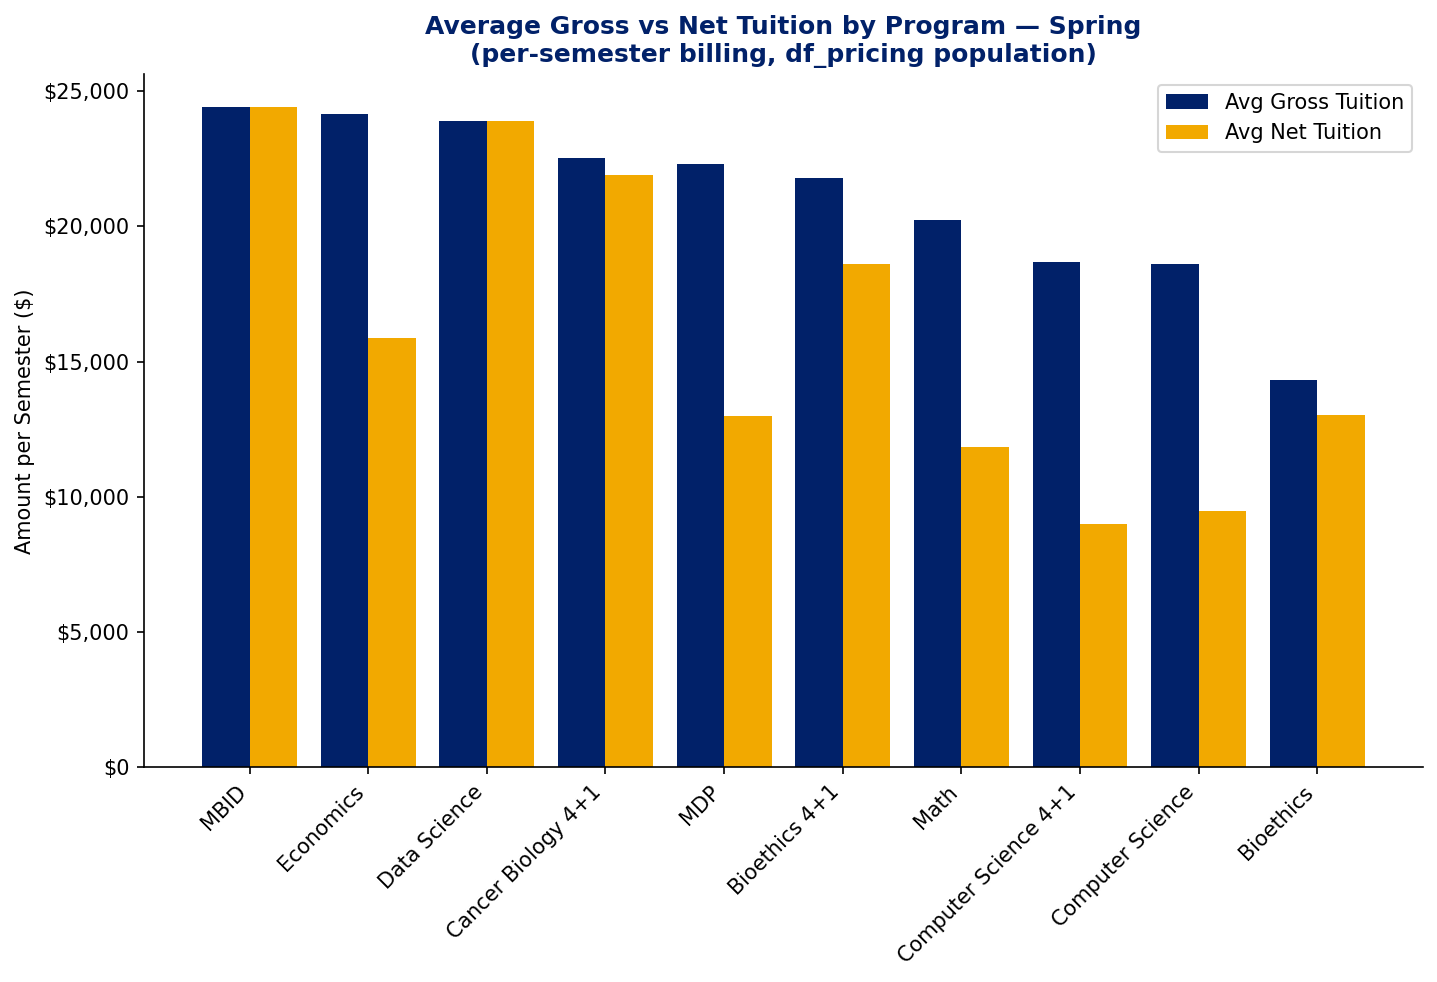
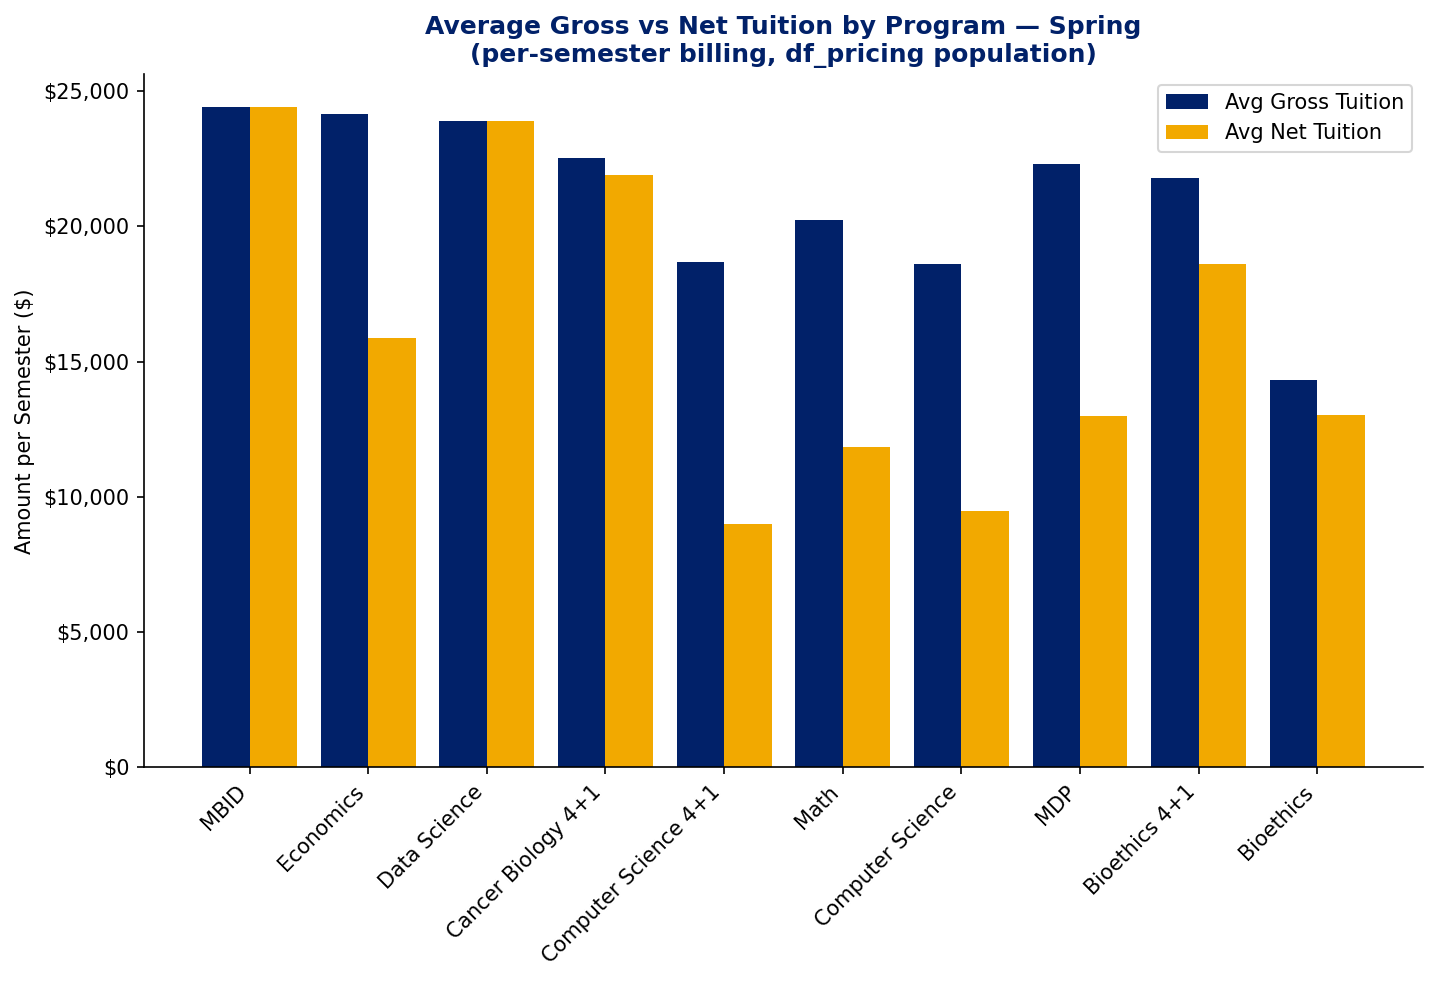
Use Fall-gross-descending order for all three semester charts
Previously each semester chart sorted independently by its own avg
gross, making cross-chart comparison hard. Now the Fall ordering is
the canonical x-axis and Spring/Summer follow it (Summer omits
programs not enrolled in summer).

diff --git a/phase2_charts.py b/phase2_charts.py
@@ -305,20 +305,29 @@ def _build_semester_data(tuition_xlsx: str) -> pd.DataFrame:
     return tuition_sem
 
 
-def chart_gross_vs_net_by_semester(sem_df: pd.DataFrame, season_label: str, season_code: int, out: str) -> None:
+def chart_gross_vs_net_by_semester(
+    sem_df: pd.DataFrame,
+    season_label: str,
+    season_code: int,
+    out: str,
+    program_order: list[str] | None = None,
+) -> None:
     rows = sem_df[sem_df["season_code"] == season_code]
     if rows.empty:
         print(f"  skip {season_label}: no rows")
         return
-    agg = (
-        rows.groupby("program", as_index=False)
-        .agg(
-            students=("ID", "nunique"),
-            avg_tuition=("tuition", "mean"),
-            avg_net_tuition=("net_tuition", "mean"),
-        )
-        .sort_values("avg_tuition", ascending=False)
+    agg = rows.groupby("program", as_index=False).agg(
+        students=("ID", "nunique"),
+        avg_tuition=("tuition", "mean"),
+        avg_net_tuition=("net_tuition", "mean"),
     )
+    if program_order is not None:
+        # Keep only programs present in this semester, in the canonical order.
+        present = set(agg["program"])
+        ordered = [p for p in program_order if p in present]
+        agg = agg.set_index("program").loc[ordered].reset_index()
+    else:
+        agg = agg.sort_values("avg_tuition", ascending=False)
 
     x = range(len(agg))
     w = 0.4
@@ -367,9 +376,17 @@ def main() -> None:
 
     sem = _build_semester_data("Tuition Data.xlsx")
     print(f"  semester rows: {len(sem)} ({sem['ID'].nunique()} students)")
-    chart_gross_vs_net_by_semester(sem, "Fall",   9, "charts/gross_net_fall.png")
-    chart_gross_vs_net_by_semester(sem, "Spring", 1, "charts/gross_net_spring.png")
-    chart_gross_vs_net_by_semester(sem, "Summer", 6, "charts/gross_net_summer.png")
+    # Canonical program order: Fall avg gross descending. Applied to all three
+    # semester charts so the bars line up across Fall/Spring/Summer.
+    fall_order = (
+        sem[sem["season_code"] == 9]
+        .groupby("program")["tuition"].mean()
+        .sort_values(ascending=False)
+        .index.tolist()
+    )
+    chart_gross_vs_net_by_semester(sem, "Fall",   9, "charts/gross_net_fall.png",   program_order=fall_order)
+    chart_gross_vs_net_by_semester(sem, "Spring", 1, "charts/gross_net_spring.png", program_order=fall_order)
+    chart_gross_vs_net_by_semester(sem, "Summer", 6, "charts/gross_net_summer.png", program_order=fall_order)
 
 
 if __name__ == "__main__":
